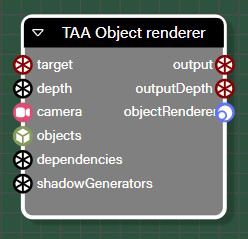
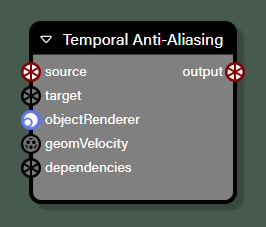
Update the TAA block doc

diff --git a/content/features/featuresDeepDive/frameGraph/frameGraphBlocks/frameGraphBlocksDescription.md b/content/features/featuresDeepDive/frameGraph/frameGraphBlocks/frameGraphBlocksDescription.md
@@ -120,6 +120,18 @@ Note that the `Geometry renderer back faces` block has been configured with **Re
 
 You will see in this PG that we are rebuilding the graph (see line 67) because we have set the `ssr.blurDispersionStrength` property to 0. As the SSR block has a non-zero value in NRGE, we are in the case explained above where the graph must be rebuilt.
 
+<H3Image title="TAA (Temporal Anti-Aliasing)" image="/img/frameGraph/block_taaobjectrenderer.jpg" alt="TAA node"/>
+
+This block is slightly different from other post-process blocks, as the **source** input is mandatory and the **target** input is not (yet) used.
+In addition, this block must instrument the rendering of objects, which is why you must connect the **objectRenderer** output of an [ObjectRenderer](#objectrenderer) block to the **objectRenderer** input.
+
+If you are using the [reprojectHistory](/features/featuresDeepDive/postProcesses/TAARenderingPipeline#reproject-history) option, you must provide a **geomVelocity** texture. You can generate this texture using the [GeometryRenderer](#geometryrenderer) block.
+Notes:
+* you must connect the **geomLinearVelocity** output to the **geomVelocity** input (you will get an error if you connect the wrong output)!
+* You should not connect anything to the **geomVelocity** input if you are not using the reprojection history option, otherwise you may get rendering artifacts (and affect performance).
+
+Refer to [Temporal Anti-Aliasing (TAA) Rendering Pipeline](/features/featuresDeepDive/postProcesses/TAARenderingPipeline) for more information on TAA and the parameters you can use to adjust the effect.
+
 ## Rendering blocks
 
 <H3Image title="ObjectRenderer" image="/img/frameGraph/block_objectrenderer.jpg" alt="ObjectRenderer node"/>
@@ -166,10 +178,6 @@ You may be surprised to see a **camera** input, because the scene is rendered fr
 * calculate the LOD of the meshes. The LOD of the meshes is defined according to the distance from a camera, not from a light.
 
 The **generator** output is what you need to connect to the **ObjectRenderer.shadowGenerators** input, to render meshes with shadows. This is because the `ObjectRenderer` block needs more than access to the shadow map texture; it needs access to the shadow generator object itself. The **output** is the texture of the shadow map, in case you need it in other parts of the graph.
-
-<H3Image title="TAAObjectRenderer" image="/img/frameGraph/block_taaobjectrenderer.jpg" alt="TAAObjectRenderer node"/>
-
-This block is similar to the `ObjectRenderer` block, except that it applies a temporal anti-aliasing effect to the rendering. Refer to [Temporal Anti-Aliasing (TAA) Rendering Pipeline](/features/featuresDeepDive/postProcesses/TAARenderingPipeline) for more information on TAA and the parameters you can use to adjust the effect.
 
 <H3Image title="UtilityLayerRenderer" image="/img/frameGraph/block_utilitylayerrenderer.jpg" alt="UtilityLayerRenderer node"/>
 
